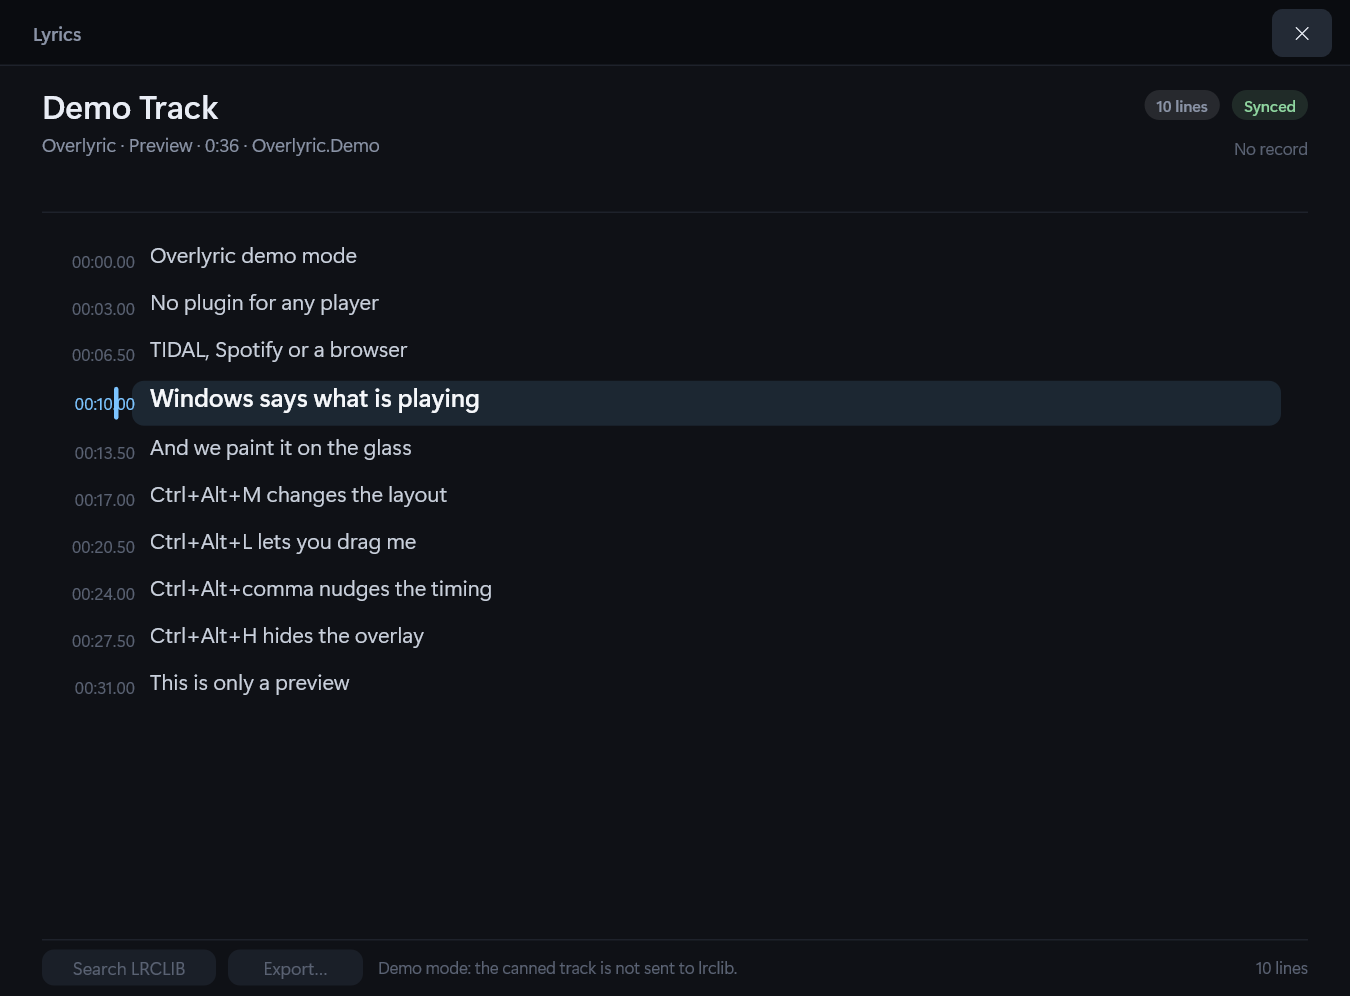
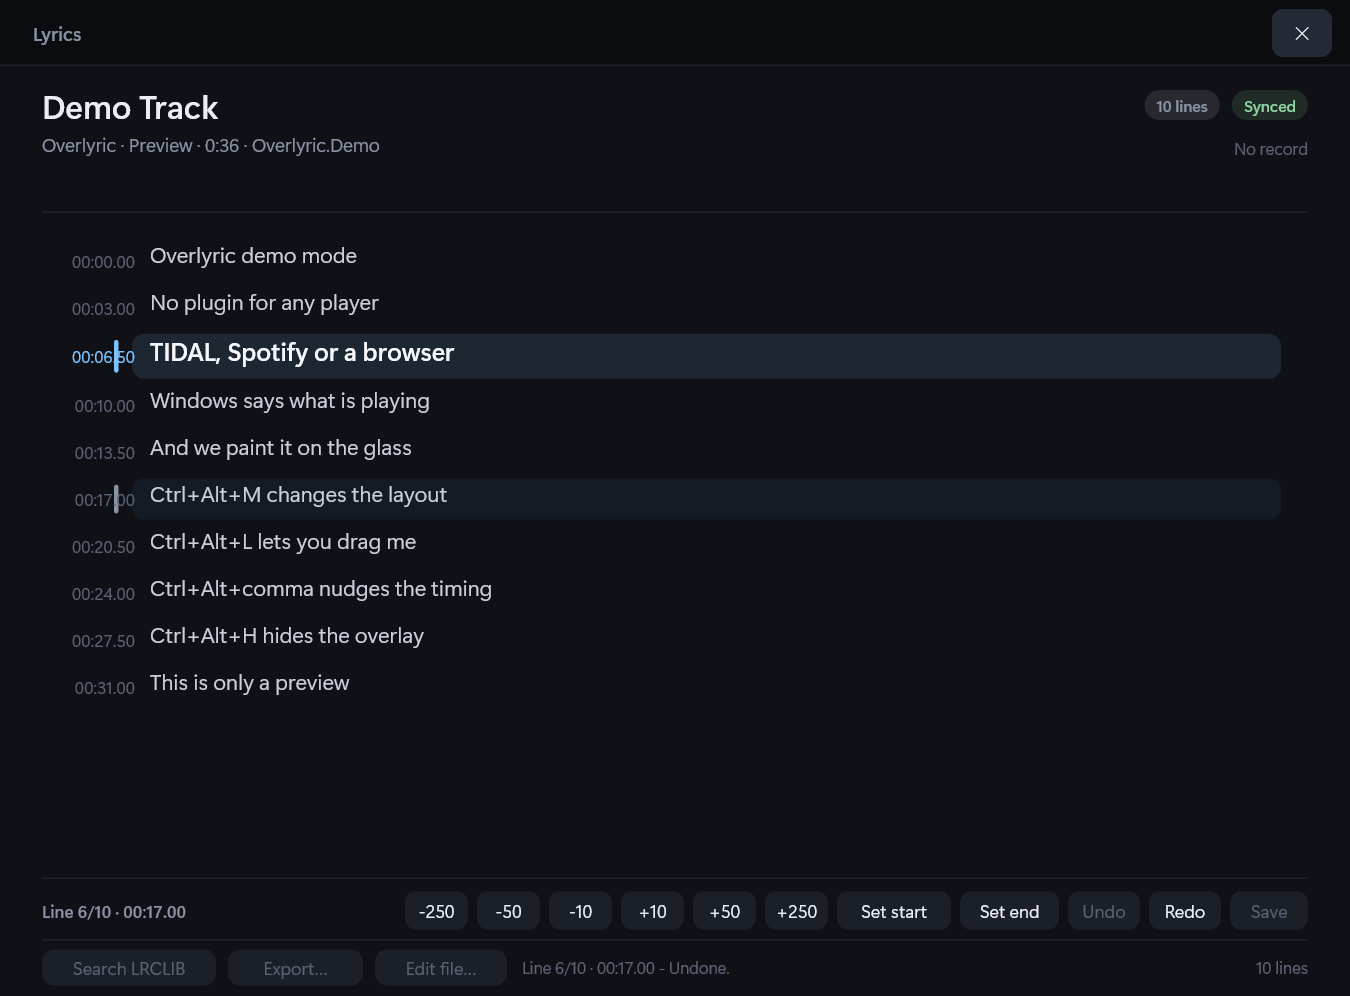
Fix the timing toolbar/footer overlap and the dirty-state regression
The first cut of the timing toolbar drew the footer at ListBottom, which
already subtracted the toolbar height, so the two bands shared a strip: the
footer's buttons and hint overprinted the toolbar at both the default and the
minimum width. The footer now starts at ListBottom + EditToolbarHeight.

The toolbar also had no narrow-width strategy: 608 DIP of buttons plus a
190 DIP label do not fit in 640. Below 780 DIP it shrinks its buttons and
drops the selection label, and the footer carries "Line N/M - message"
instead; the footer hint is clipped to its actual width, so the long help
sentence can no longer run under the line count.

Undoing every edit back to the original sheet now clears IsDirty: the session
keeps its saved-state snapshot and compares the restored lines against it, so
the Save button goes quiet when there is nothing to save. The probe gains that
check (38 total).

The sheet capture is regenerated at the fixed layout: one line selected (dark
rail) distinct from the playback-active line, the toolbar and footer on
separate bands, Save dimmed after undoing back to the original.

diff --git a/src/Overlyric/App/LyricViewerWindow.cs b/src/Overlyric/App/LyricViewerWindow.cs
@@ -162,6 +162,9 @@ internal sealed class LyricViewerWindow : PanelWindow
 
     private float EditToolbarTop => HeightDip - FooterHeight - EditToolbarHeight + 4f;
 
+    /// <summary>Where the footer starts: below the timing toolbar, not below the list.</summary>
+    private float FooterTop => ListBottom + EditToolbarHeight;
+
     private float TextWidth => WidthDip - TextLeft - TextRightPadding;
 
     private float SearchDurationLeft =>
@@ -244,29 +247,44 @@ internal sealed class LyricViewerWindow : PanelWindow
 
         const float height = 26f;
         var top = EditToolbarTop + 4f;
-        var line = _edit?.SelectedLine;
-        var info = _edit is null
-            ? "Timing editor"
-            : line is { } selected
-                ? $"Line {_edit.SelectedIndex + 1}/{_edit.Lines.Count} \u00b7 {LyricText.FormatTimestamp(selected.Start)}"
-                : "No line selected";
-
-        Label(context, info, Pad, top, 190f, height, 11.5f, FontWeight.SemiBold, ColorTextDim);
-
         var enabled = _edit is not null;
+
+        // The full set of buttons is 608 DIP wide; below the default width they shrink so the
+        // toolbar fits inside the window padding, and the selection label moves to the footer.
+        var compact = WidthDip < 780f;
+        var nudgeWidth = compact ? 36f : 42f;
+        var buttonWidth = compact ? 44f : 48f;
+        var saveWidth = compact ? 48f : 52f;
+        var setStartWidth = compact ? 66f : 76f;
+        var setEndWidth = compact ? 56f : 66f;
+
         var right = WidthDip - Pad;
 
-        right = EditButton(context, SaveControl, "Save", right, top, 52f, height, enabled && _edit!.IsDirty);
-        right = EditButton(context, RedoControl, "Redo", right, top, 48f, height, enabled && _edit!.CanRedo);
-        right = EditButton(context, UndoControl, "Undo", right, top, 48f, height, enabled && _edit!.CanUndo);
-        right = EditButton(context, SetEndControl, "Set end", right, top, 66f, height, enabled);
-        right = EditButton(context, SetStartControl, "Set start", right, top, 76f, height, enabled);
+        right = EditButton(context, SaveControl, "Save", right, top, saveWidth, height, enabled && _edit!.IsDirty);
+        right = EditButton(context, RedoControl, "Redo", right, top, buttonWidth, height, enabled && _edit!.CanRedo);
+        right = EditButton(context, UndoControl, "Undo", right, top, buttonWidth, height, enabled && _edit!.CanUndo);
+        right = EditButton(context, SetEndControl, "Set end", right, top, setEndWidth, height, enabled);
+        right = EditButton(context, SetStartControl, "Set start", right, top, setStartWidth, height, enabled);
 
         for (var i = NudgeStepsMs.Length - 1; i >= 0; i--)
         {
             var step = NudgeStepsMs[i];
             var text = (step > 0 ? "+" : string.Empty) + step.ToString(System.Globalization.CultureInfo.InvariantCulture);
-            right = EditButton(context, NudgeBase + i, text, right, top, 42f, height, enabled);
+            right = EditButton(context, NudgeBase + i, text, right, top, nudgeWidth, height, enabled);
+        }
+
+        // The selection label is only drawn when it has room; the footer always carries it.
+        var infoWidth = right - Pad - 8f;
+
+        if (infoWidth >= 130f)
+        {
+            var info = _edit is null
+                ? "Timing editor"
+                : _edit.SelectedLine is { } selected
+                    ? $"Line {_edit.SelectedIndex + 1}/{_edit.Lines.Count} \u00b7 {LyricText.FormatTimestamp(selected.Start)}"
+                    : "No line selected";
+
+            Label(context, info, Pad, top, infoWidth, height, 11.5f, FontWeight.SemiBold, ColorTextDim);
         }
     }
 
@@ -785,7 +803,7 @@ internal sealed class LyricViewerWindow : PanelWindow
 
     private void DrawFooter(ID2D1DeviceContext context, LyricSheet? sheet)
     {
-        Fill(context, R(Pad, ListBottom, WidthDip - Pad, ListBottom + 1f), ColorLine);
+        Fill(context, R(Pad, FooterTop, WidthDip - Pad, FooterTop + 1f), ColorLine);
 
         if (_searchOpen)
         {
@@ -793,7 +811,7 @@ internal sealed class LyricViewerWindow : PanelWindow
                 context,
                 "Enter searches \u00b7 Esc returns to the sheet \u00b7 Click a record to use it.",
                 Pad,
-                ListBottom + 9f,
+                FooterTop + 9f,
                 WidthDip - (2 * Pad) - 200f,
                 20f,
                 11f,
@@ -807,7 +825,7 @@ internal sealed class LyricViewerWindow : PanelWindow
                 context,
                 right,
                 WidthDip - Pad - 180f,
-                ListBottom + 9f,
+                FooterTop + 9f,
                 180f,
                 20f,
                 11f,
@@ -829,41 +847,57 @@ internal sealed class LyricViewerWindow : PanelWindow
                 context,
                 OpenSearchControl,
                 "Search LRCLIB",
-                R(Pad, ListBottom + 7f, Pad + buttonWidth, ListBottom + 31f),
+                R(Pad, FooterTop + 7f, Pad + buttonWidth, FooterTop + 31f),
                 !sheet.IsDemo);
 
             Button(
                 context,
                 ExportControl,
                 "Export\u2026",
-                R(Pad + buttonWidth + 8f, ListBottom + 7f, Pad + buttonWidth + 8f + exportWidth, ListBottom + 31f),
+                R(Pad + buttonWidth + 8f, FooterTop + 7f, Pad + buttonWidth + 8f + exportWidth, FooterTop + 31f),
                 sheet.IsSynced && !sheet.IsDemo);
 
             Button(
                 context,
                 EditFileControl,
                 "Edit file\u2026",
-                R(editLeft, ListBottom + 7f, editLeft + editWidth, ListBottom + 31f),
+                R(editLeft, FooterTop + 7f, editLeft + editWidth, FooterTop + 31f),
                 !sheet.IsDemo);
 
-            var hint = _edit is not null
-                ? _editMessage ?? "Up/Down selects a line; Shift+click a nudge shifts every line; Ctrl+Z/Y undo/redo."
+            // Below the default width the selection prefix and the help sentence are dropped: there
+            // is room for one short sentence (usually the last operation's result) and no more, and
+            // the Label draws without wrapping, so an over-long hint would run under the line count.
+            var compact = WidthDip < 800f;
+            var selection = !compact && _edit?.SelectedLine is { } selected
+                ? $"Line {_edit.SelectedIndex + 1}/{_edit.Lines.Count} \u00b7 {LyricText.FormatTimestamp(selected.Start)} - "
+                : string.Empty;
+
+            var help = _edit is not null
+                ? selection + (_editMessage ?? "Up/Down selects a line; Shift+click a nudge shifts every line; Ctrl+Z/Y undo/redo.")
                 : sheet.IsDemo
                     ? "Demo mode: the canned track is not sent to lrclib."
                     : sheet.IsSynced
                         ? "Ctrl+F searches lrclib with your own words."
                         : "This sheet has no timings, so there is nothing to export yet.";
 
-            Label(
-                context,
-                hint,
-                editLeft + editWidth + 10f,
-                ListBottom + 9f,
-                WidthDip - (2 * Pad) - buttonWidth - exportWidth - editWidth - 258f,
-                20f,
-                11f,
-                FontWeight.Normal,
-                ColorTextFaint);
+            var hintLeft = editLeft + editWidth + 10f;
+            var hintWidth = MathF.Max(0f, WidthDip - Pad - 190f - hintLeft);
+            var maxChars = Math.Max(6, (int)(hintWidth / 5.6f));
+            var hint = help.Length <= maxChars ? help : help[..(maxChars - 1)] + "\u2026";
+
+            if (hintWidth > 20f)
+            {
+                Label(
+                    context,
+                    hint,
+                    hintLeft,
+                    FooterTop + 9f,
+                    hintWidth,
+                    20f,
+                    11f,
+                    FontWeight.Normal,
+                    ColorTextFaint);
+            }
         }
 
         // The empty state carries its own Search LRCLIB button, so the footer only has to say how
@@ -875,7 +909,7 @@ internal sealed class LyricViewerWindow : PanelWindow
             context,
             rightText,
             WidthDip - Pad - 180f,
-            ListBottom + 9f,
+            FooterTop + 9f,
             180f,
             20f,
             11f,

diff --git a/src/Overlyric/App/LyricEditSession.cs b/src/Overlyric/App/LyricEditSession.cs
@@ -27,6 +27,7 @@ internal sealed class LyricEditSession
     private readonly Stack<EditState> _undo = new();
     private readonly Stack<EditState> _redo = new();
     private int _selected = -1;
+    private EditState _saved;
 
     public LyricEditSession(IReadOnlyList<LyricLine> lines)
     {
@@ -34,6 +35,7 @@ internal sealed class LyricEditSession
 
         _lines = [.. lines];
         _selected = _lines.Count > 0 ? 0 : -1;
+        _saved = Capture();
     }
 
     public IReadOnlyList<LyricLine> Lines => _lines;
@@ -207,6 +209,7 @@ internal sealed class LyricEditSession
     /// <summary>Called by the host once the edited sheet has been written; keeps the history.</summary>
     public void MarkSaved()
     {
+        _saved = Capture();
         IsDirty = false;
         Message = "Saved as this track's local sheet.";
     }
@@ -262,7 +265,9 @@ internal sealed class LyricEditSession
         _lines.Clear();
         _lines.AddRange(state.Lines);
         _selected = Math.Clamp(state.Selected, -1, Math.Max(-1, _lines.Count - 1));
-        IsDirty = true;
+
+        // Undoing back to the saved sheet is not a pending change; the Save button should go quiet.
+        IsDirty = !Capture().Lines.SequenceEqual(_saved.Lines);
     }
 
     private void ReplaceSelected(LyricLine line)

diff --git a/probe/LyricEditTests/Program.cs b/probe/LyricEditTests/Program.cs
@@ -140,6 +140,12 @@ internal static class Program
         session.Undo();
         Check("undoing a saved edit makes it dirty again", session.IsDirty, session.IsDirty);
 
+        var toOriginal = NewSession();
+        toOriginal.Select(0);
+        toOriginal.SetStart(TimeSpan.FromSeconds(2));
+        toOriginal.Undo();
+        Check("undoing back to the original sheet clears the dirty flag", !toOriginal.IsDirty, toOriginal.IsDirty);
+
         var bounded = NewSession();
         bounded.Select(0);
 
